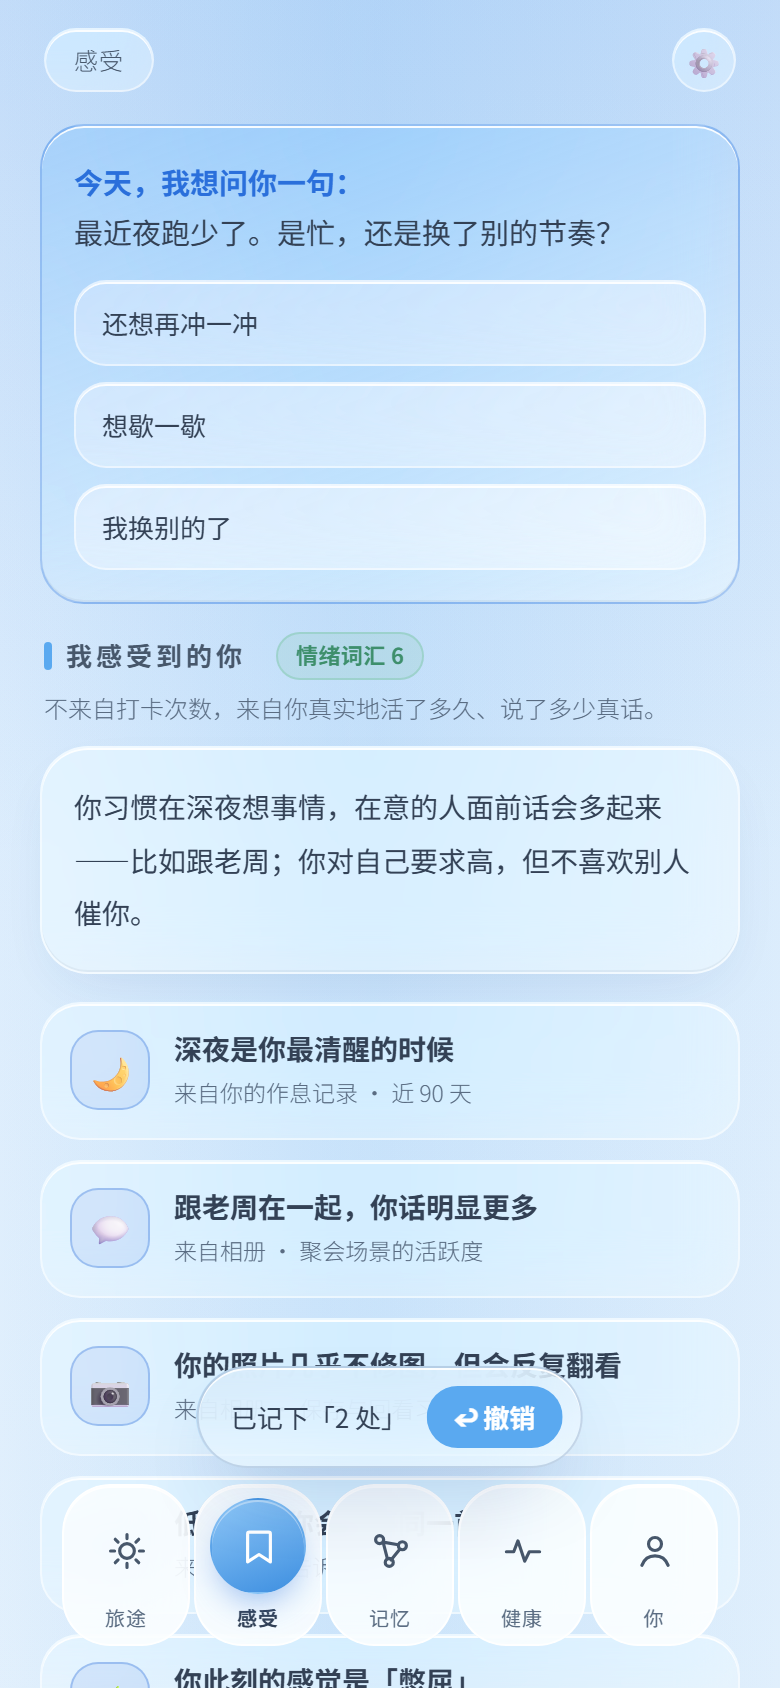
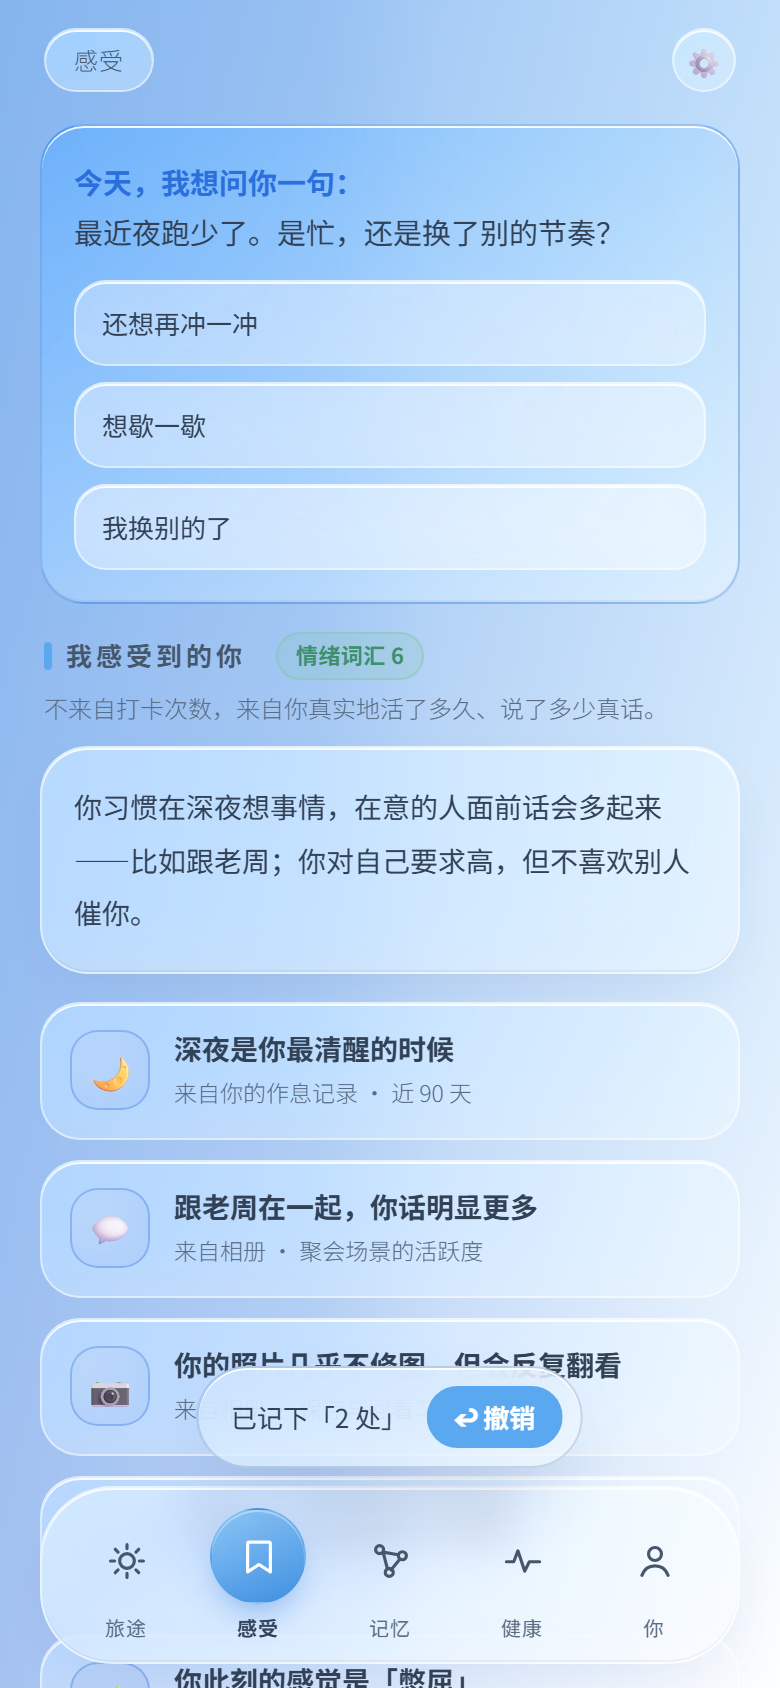
revert: 回退 v96，恢复 v94 的玻璃底版本

diff --git a/prototype/index.html b/prototype/index.html
@@ -2083,66 +2083,6 @@
   }
   .annual-box textarea:focus{border-color:var(--blue-line);box-shadow:0 0 0 3px var(--blue-soft);}
   .annual-acts{display:flex;gap:8px;justify-content:flex-end;margin-top:6px;}
-
-  /* ==========================================================================
-     v96 · 只让「悬浮层」透出背后的内容
-     天气卡、演示按钮、发送键、导航图标都是实体（卡片/胶囊），保留；
-     输入框与底部导航的「容器底」（玻璃、描边、阴影、毛玻璃）去掉，
-     滚动时下面的文字能从按钮之间透上来（参考聊天 App 的悬浮工具条）。
-     ========================================================================== */
-  .chat-input{
-    background:transparent !important;
-    border-color:transparent !important;
-    box-shadow:none !important;
-    -webkit-backdrop-filter:none !important;
-    backdrop-filter:none !important;
-  }
-  :root[data-theme="light"] .chat-input{
-    background:transparent !important;
-    border-color:transparent !important;
-    box-shadow:none !important;
-    -webkit-backdrop-filter:none !important;
-    backdrop-filter:none !important;
-  }
-  .nav{
-    background:transparent !important;
-    border-color:transparent !important;
-    box-shadow:none !important;
-    -webkit-backdrop-filter:none !important;
-    backdrop-filter:none !important;
-  }
-  /* 每个导航项自己是一个竖胶囊（图标 + 文字），去掉容器底后依然清晰 */
-  .nav-item{
-    background:var(--glass-bg-2);
-    border:1px solid var(--glass-border);
-    border-radius:24px;
-    padding:8px 2px;
-    -webkit-backdrop-filter:blur(14px) saturate(160%);
-    backdrop-filter:blur(14px) saturate(160%);
-    box-shadow:inset 0 1px 0 var(--glass-hi);
-  }
-  .nav-item .ic{
-    background:transparent;
-    border-color:transparent;
-    box-shadow:none;
-    -webkit-backdrop-filter:none;
-    backdrop-filter:none;
-  }
-  :root[data-theme="light"] .nav-item{
-    background:rgba(255,255,255,.82);
-    border-color:rgba(255,255,255,.9);
-  }
-  /* 透明底上，工具按钮与导航项保留自己的胶囊/图标存在感 */
-  .chat-tool{
-    background:var(--glass-bg-2);
-    border:1px solid var(--glass-border);
-    border-radius:var(--r-pill);
-    width:36px;height:36px;
-  }
-  :root[data-theme="light"] .chat-tool{
-    background:rgba(255,255,255,.55);
-    border-color:rgba(255,255,255,.7);
-  }
   .grat-last{margin-top:7px;font-size:11.5px;color:var(--text-dim);}
   .grat-last b{color:var(--sage);font-weight:600;}
   /* ==========================================================================
